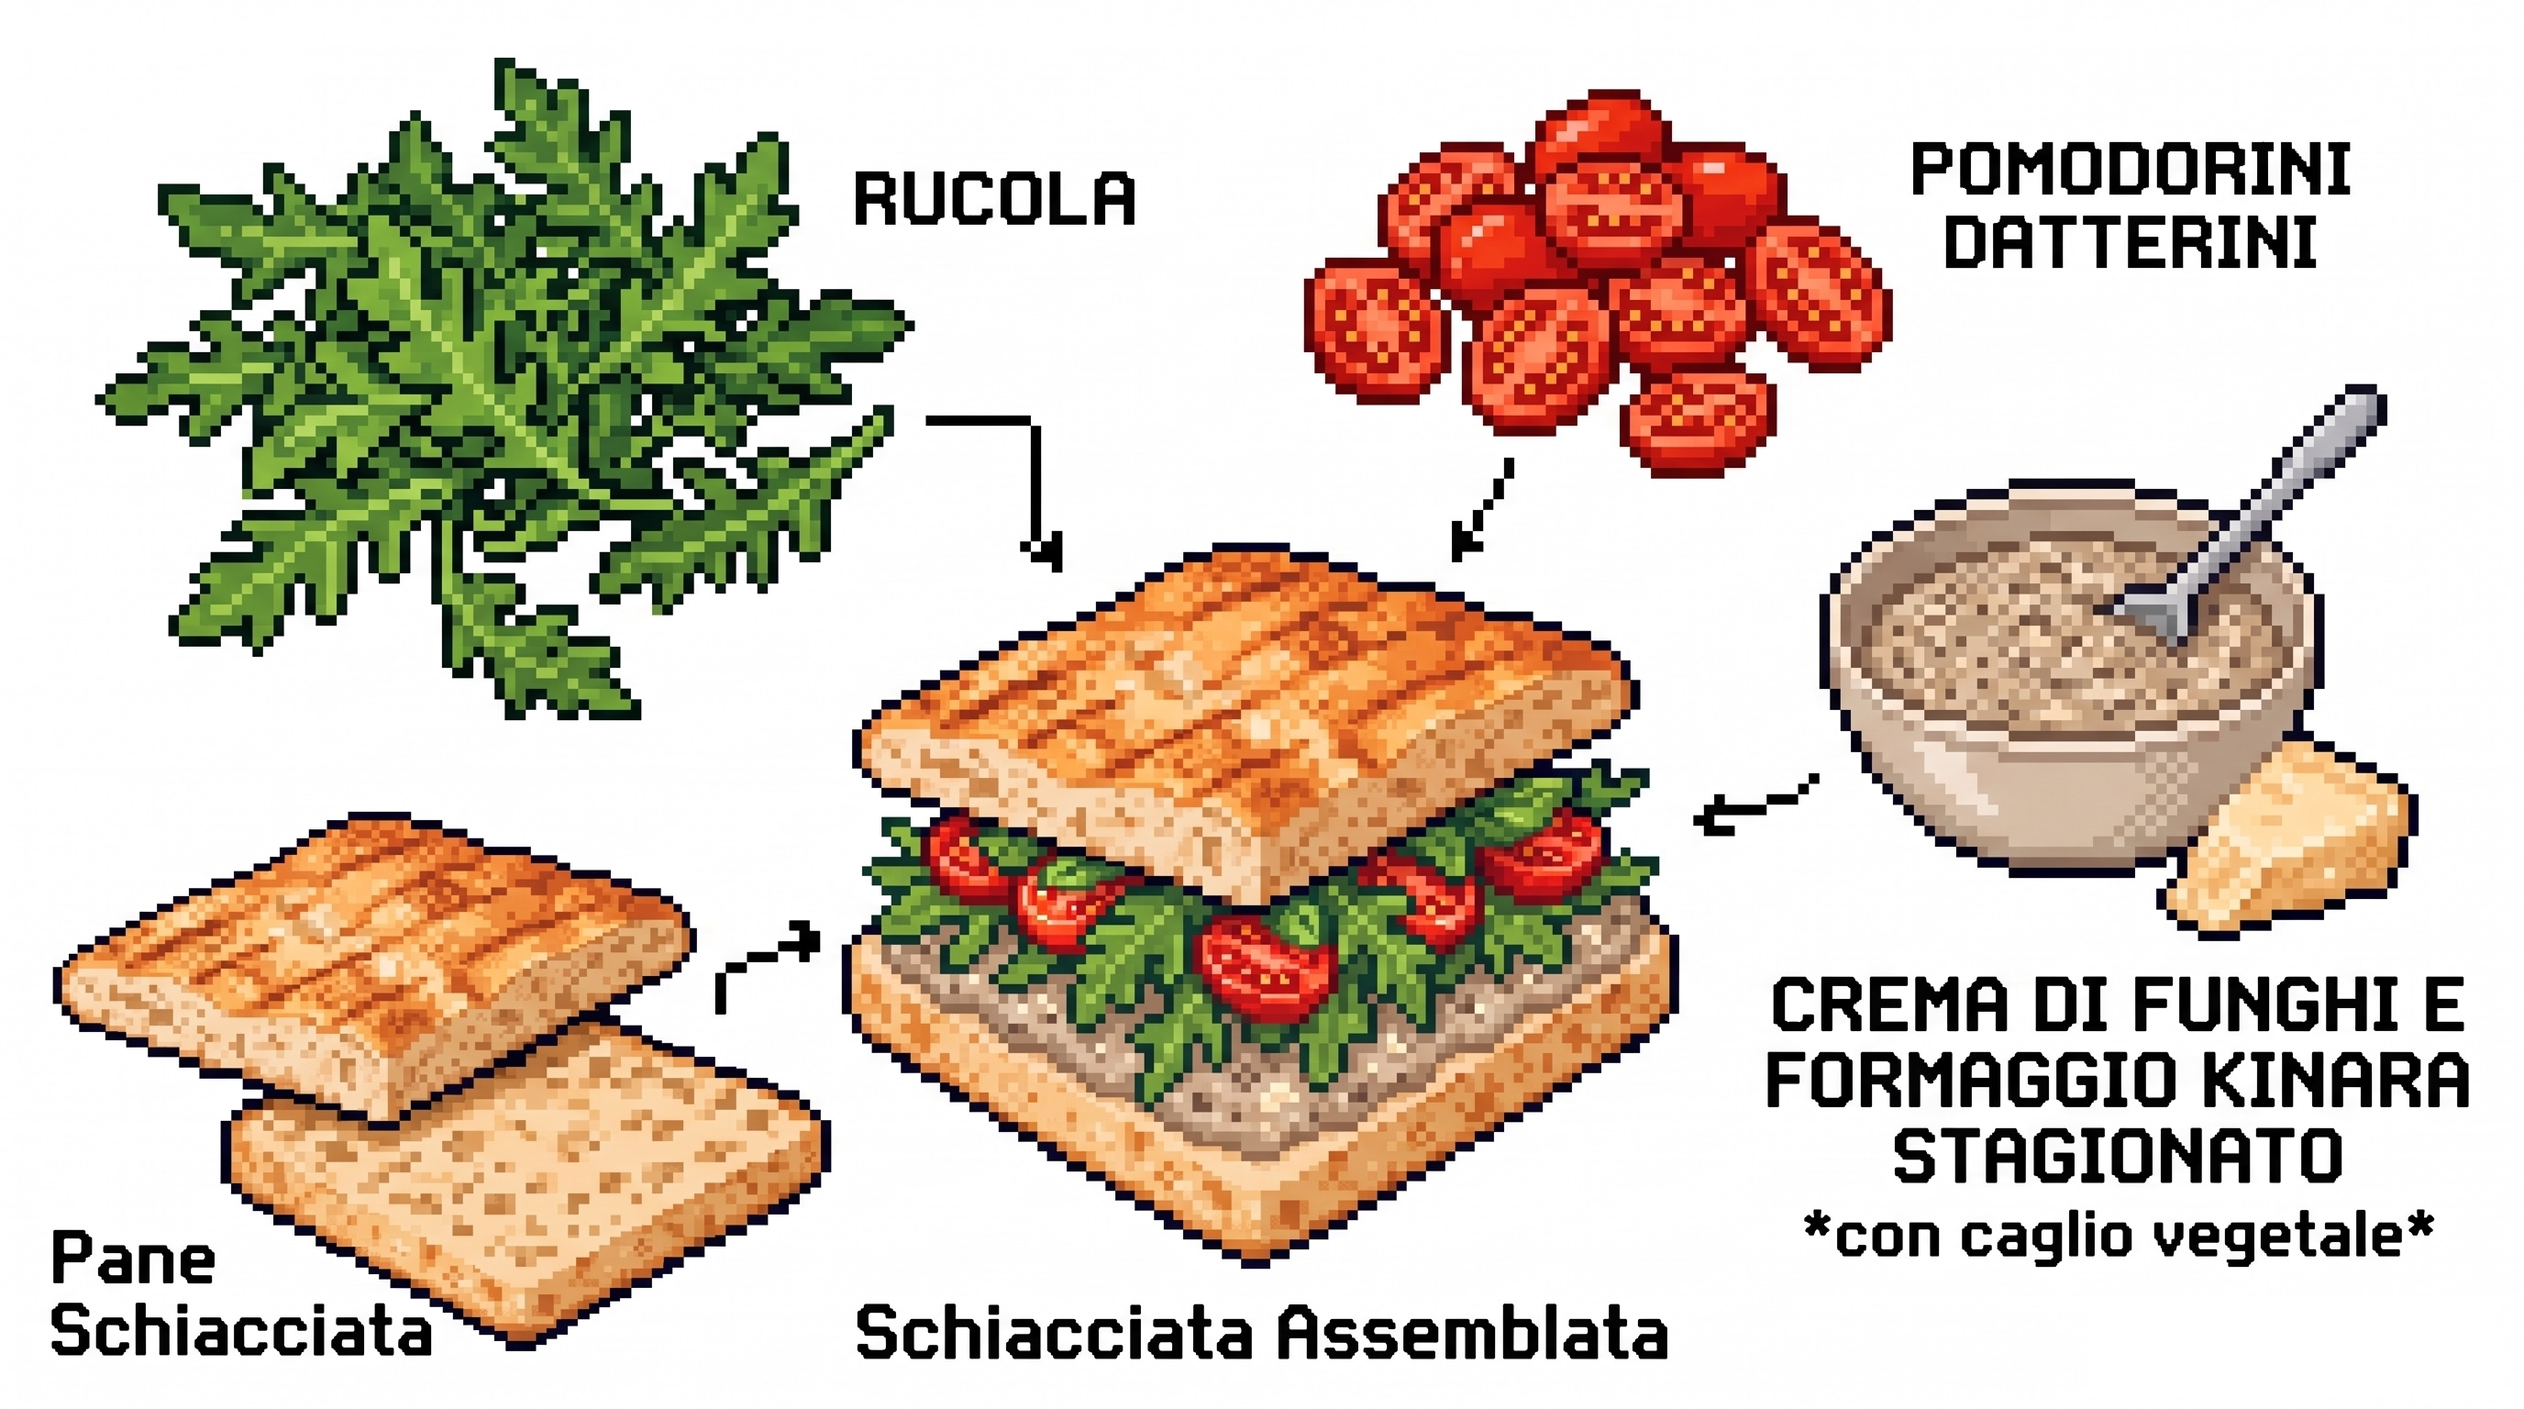
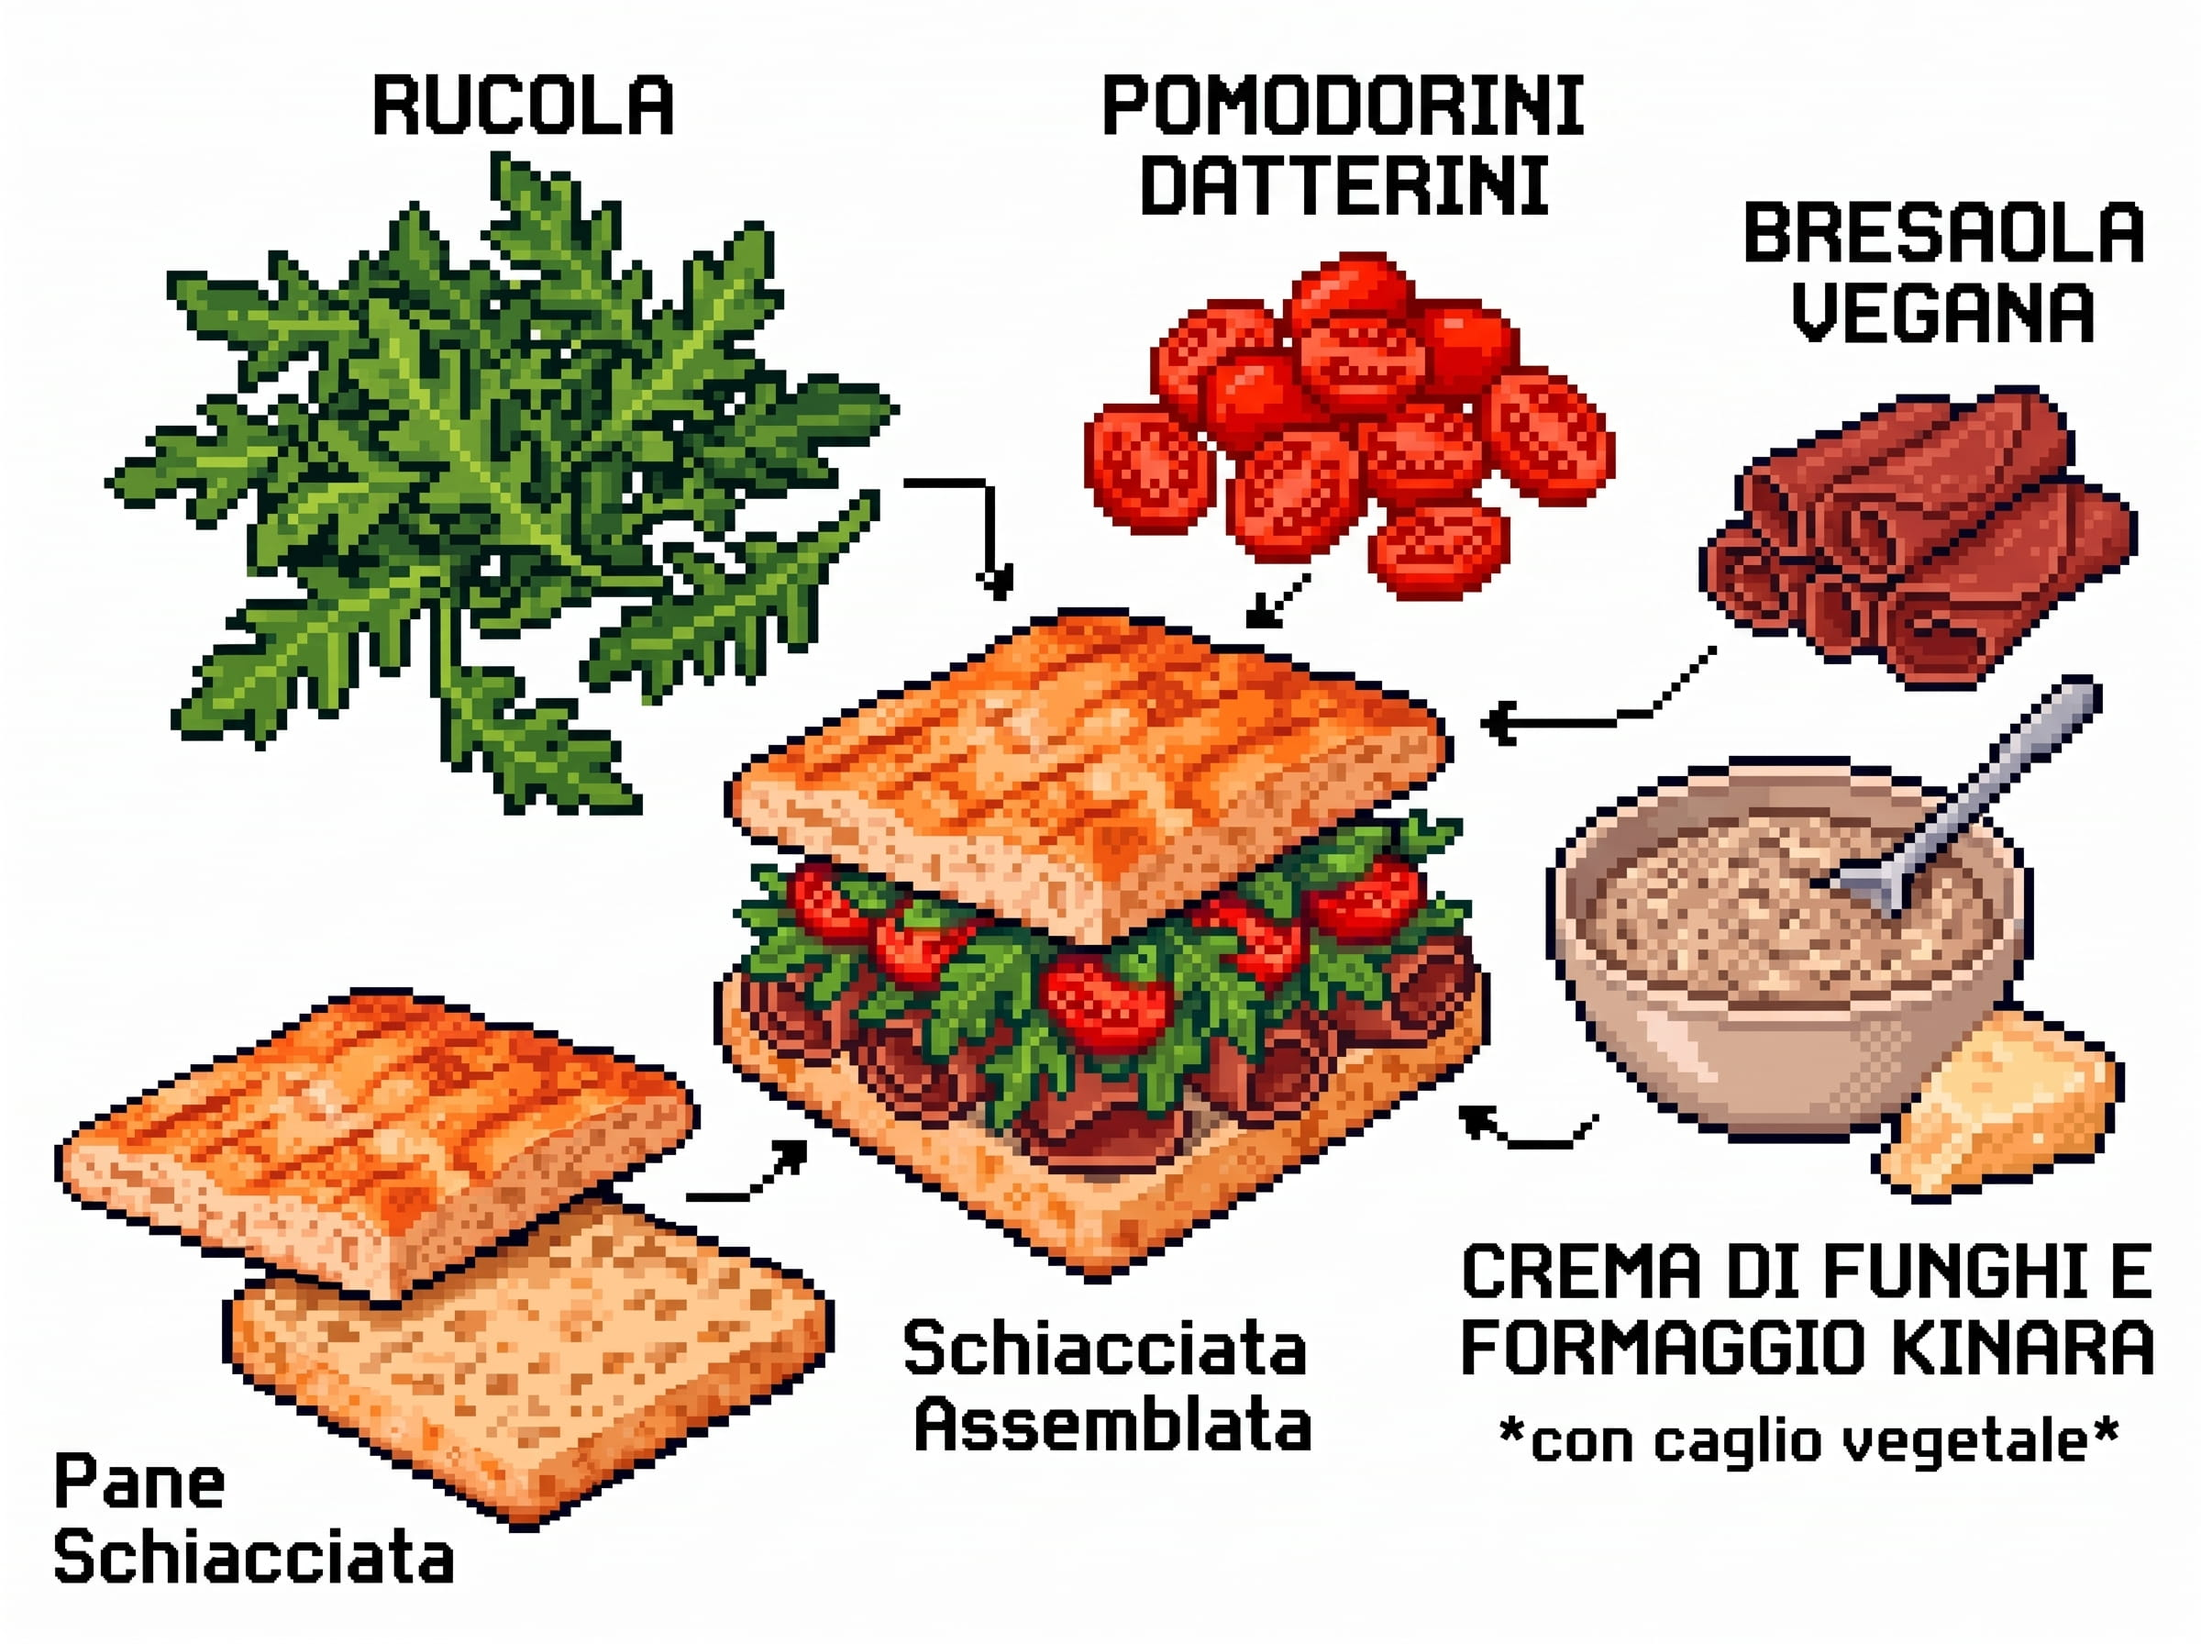
update menu item images to WebP format for improved loading performance and update description for clarity

diff --git a/src/App.jsx b/src/App.jsx
@@ -120,7 +120,7 @@ function App() {
   // Elemento per il MorphSlider
   const menuItems = useMemo(() => [
     { 
-      image: '/contadina.jpg',  
+      image: '/contadina.webp',  
       caption: (
         <div className="flex flex-col items-center justify-center gap-2">
           <span className="text-lg sm:text-xl text-[#D8A86C] font-bold uppercase tracking-wider">Contadina</span>
@@ -131,12 +131,12 @@ function App() {
       )
     },
     { 
-      image: '/mediterranea.jpg',    
+      image: '/mediterranea.webp',    
       caption: (
         <div className="flex flex-col items-center justify-center gap-2">
           <span className="text-lg sm:text-xl text-[#D8A86C] font-bold uppercase tracking-wider">Mediterranea</span>
           <span className="text-sm sm:text-base text-white/80 font-normal leading-relaxed max-w-2xl text-center">
-            Ricotta vegana, pomodorini datterini, melanzane alla griglia, scaglie di Grana Padano Kinara (caglio vegetale).
+            Ricotta vegana, pomodorini datterini, melanzane alla griglia, formaggio stagionato di Kinara (caglio vegetale).
           </span>
         </div>
       )
